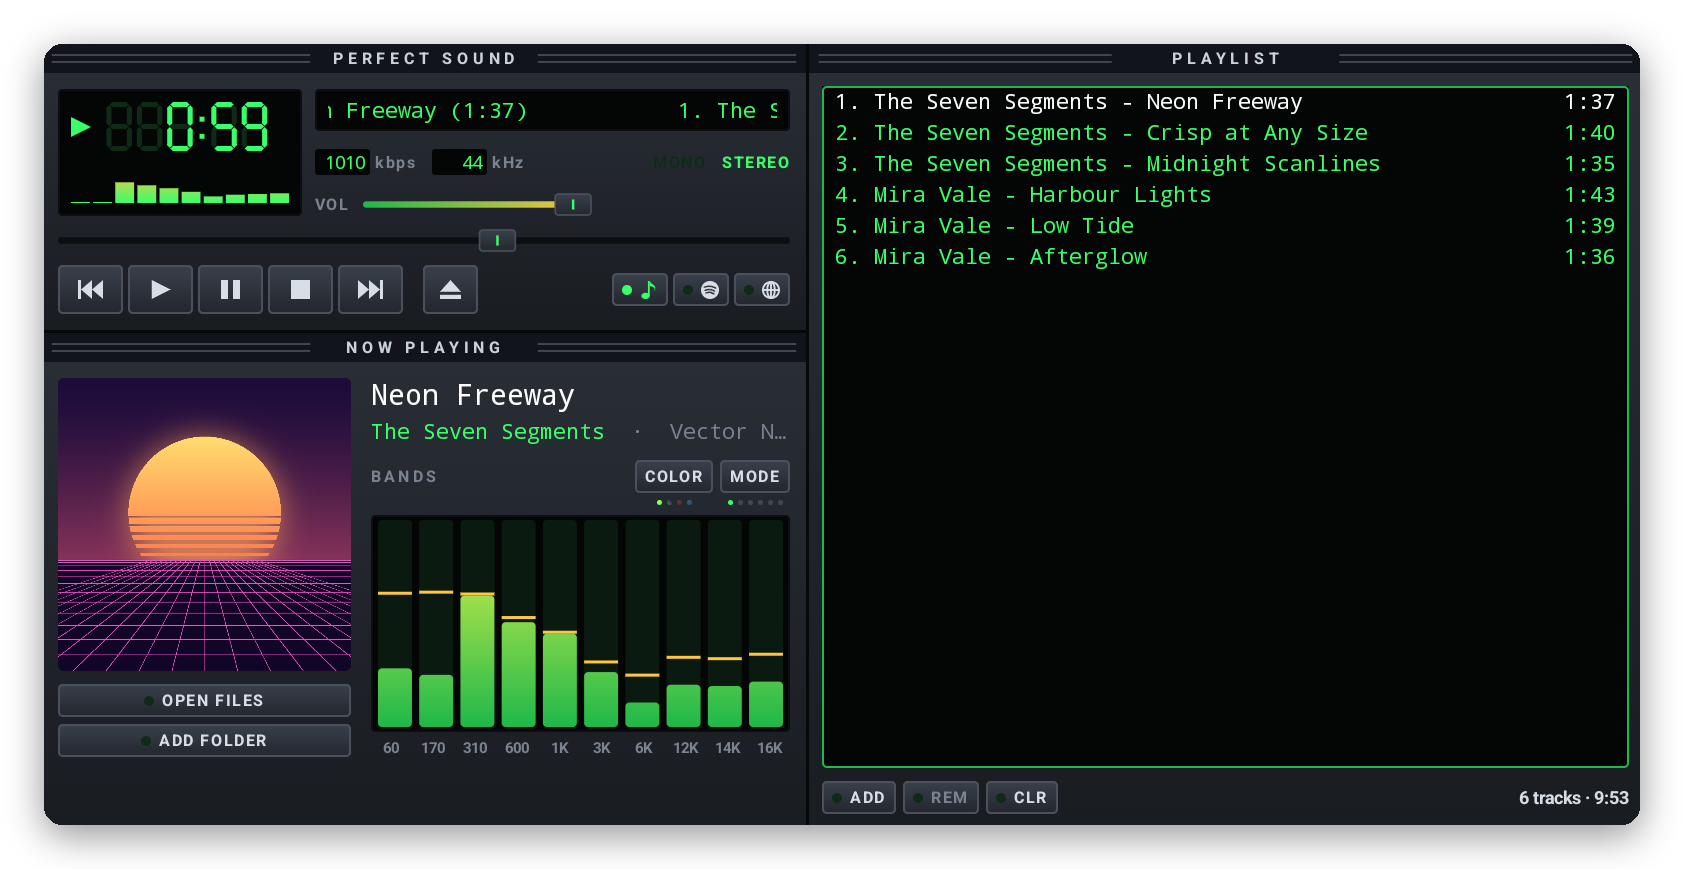
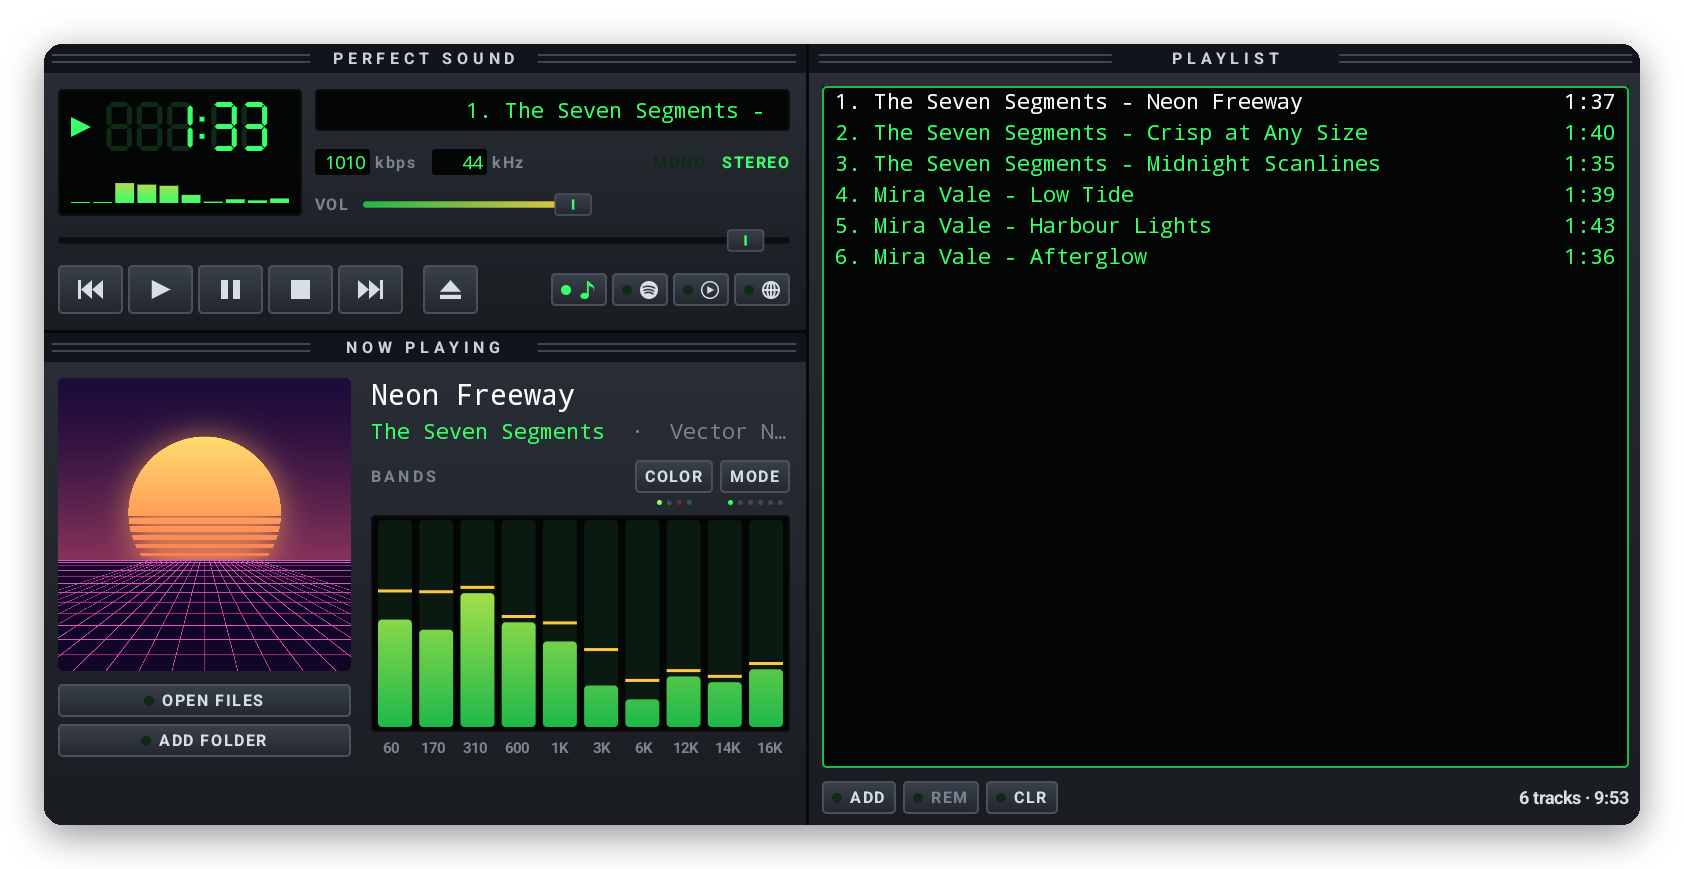
Version 0.4.3
New screenshots with the four sources, README, repo listing text and the
release checklist updated for the Spotify and YouTube Music web players.

diff --git a/tools/play_images.py b/tools/play_images.py
@@ -34,7 +34,7 @@ GREEN, WHITE = (88, 230, 104), (232, 234, 238)
 
 SCREENSHOTS = [
     ("hero.png", "Your own music, with a live visualizer and a proper playlist"),
-    ("remote.png", "Follows and controls Spotify or a Chrome tab"),
+    ("remote.png", "Follows Spotify, YouTube Music and any Chrome tab"),
     (None, "Six visualizer modes, four colour themes"),  # None: the grid of modes
 ]
 

diff --git a/README.md b/README.md
@@ -7,7 +7,8 @@
 <p align="center">
   <b>A music player for Googlebooks in the spirit of the classic '90s desktop players.</b><br>
   A seven-segment clock, a scrolling title, a live visualizer and a proper playlist, drawn crisp at
-  any size. It plays your own files, and it can follow and control Spotify or a Chrome tab.
+  any size. It plays your own files, and it can follow and control Spotify, YouTube Music or any
+  Chrome tab.
 </p>
 
 <p align="center">
@@ -27,10 +28,10 @@
 </p>
 
 <p align="center"><sub>A personal passion project by <a href="https://github.com/sanjaynathwani-blip">sanjaynathwani-blip</a>, proudly developed entirely on a Googlebook.
-Not affiliated with or endorsed by any employer, or by Winamp, Spotify or Google (<a href="#about-this-project">more</a>).</sub></p>
+Not affiliated with or endorsed by any employer, or by Winamp, Spotify, YouTube or Google (<a href="#about-this-project">more</a>).</sub></p>
 
 <p align="center">
-  <img src="docs/images/hero.png" width="880" alt="Perfect Sound playing Neon Freeway by The Seven Segments: the seven-segment clock at 0:59, a synthwave sunset cover, green frequency bands and a six-track playlist">
+  <img src="docs/images/hero.png" width="880" alt="Perfect Sound playing Neon Freeway by The Seven Segments: the seven-segment clock at 1:33, a synthwave sunset cover, green frequency bands and a six-track playlist">
 </p>
 
 ## What it is
@@ -61,11 +62,11 @@ Googlebook's display scaling and at any window size.
 under each button show where you are, and Perfect Sound remembers both. For your own files the
 visualizer needs no permissions at all.
 
-## Remote mode: Spotify and Chrome
+## Remote mode: Spotify, YouTube Music and Chrome
 
 <p align="center">
   <img src="docs/images/remote.png" width="880" alt="Perfect Sound following a Chrome tab playing Harbour Lights by Mira Vale: a moonlit-sea cover and a rainbow LED visualizer">
-  <br><sub>Following a Chrome tab: the title, artist, album art and position come from Chrome's media session.</sub>
+  <br><sub>Following a Chrome tab: the title, artist, album art and position come from Chrome's media session. SPOTIFY and YT MUSIC work the same way for their web players.</sub>
 </p>
 
 Pick **SPOTIFY** or **YT MUSIC** next to the transport buttons and Perfect Sound opens that web
@@ -82,8 +83,9 @@ from a download, Android may grey that switch out as a **restricted setting**. I
 the switch and **OK**, then click **APP INFO** in Perfect Sound, open **⋮** at the top right and
 choose **Allow restricted settings**. After that, **GRANT ACCESS** turns on as usual.
 
-To make the visualizer bounce to them, press **ON**: Android asks to share an app's audio each
-time, and Perfect Sound only ever captures other apps' media playback, never the microphone.
+To make the visualizer bounce to them, press **ON** and pick **Chrome** when Android asks which
+app's audio to share. It asks each time, and Perfect Sound only ever captures other apps' media
+playback, never the microphone.
 
 ## Made for the Googlebook
 
@@ -154,7 +156,8 @@ Ideas and bug reports are welcome in [Issues](../../issues).
 Perfect Sound is plain Android: Kotlin, Jetpack Compose for every pixel of the interface (the
 seven-segment digits, the sliders and the meters are all drawn in code), and AndroidX Media3 for
 playback and the media session. Remote mode uses Android's media sessions and notification-listener
-API; the remote visualizer uses `AudioPlaybackCapture`. The app lives in [`app/`](app/).
+API (Chrome's media notification names the site that's playing, which tells Spotify and YouTube
+Music apart from other tabs); the remote visualizer uses `AudioPlaybackCapture`. The app lives in [`app/`](app/).
 
 ```sh
 ./gradlew assembleDebug          # app/build/outputs/apk/debug/app-debug.apk ("Perfect Sound Dev")
@@ -162,7 +165,7 @@ API; the remote visualizer uses `AudioPlaybackCapture`. The app lives in [`app/`
 ./gradlew assembleRelease        # signed only if ~/.config/perfect-sound/keystore.properties exists
 ```
 
-It needs JDK 17 and the Android SDK (platform 35). The debug build installs next to the release
+It needs JDK 17 and the Android SDK (platform 36). The debug build installs next to the release
 one, as **Perfect Sound Dev**. A [GitHub Actions workflow](.github/workflows/build.yml) builds it
 and runs the unit tests on every push and pull request.
 
@@ -188,8 +191,8 @@ affiliation with my employer: my employer didn't make, sponsor, review or endors
 here speaks for my employer or endorses its products.
 
 It's inspired by the desktop music players of the late '90s but shares no code or artwork with
-any of them. Winamp is a trademark of its owners, Spotify is a trademark of Spotify AB, and Chrome
-and Googlebook are trademarks of Google LLC; they're named only to describe what Perfect Sound
+any of them. Winamp is a trademark of its owners, Spotify is a trademark of Spotify AB, and Chrome,
+YouTube Music and Googlebook are trademarks of Google LLC; they're named only to describe what Perfect Sound
 works with, and none of them made or endorsed it.
 
 ## Licenses

diff --git a/RELEASING.md b/RELEASING.md
@@ -48,11 +48,13 @@ previous version.
    and install it.
 3. Open Perfect Sound, then **OPEN FILES** or **ADD FOLDER**: a local track plays and the
    visualizer moves.
-4. Pick **SPOTIFY** with something playing in Spotify. Turn on notification access with the app's
-   own **GRANT ACCESS** button. If the switch is greyed out, follow the steps the app shows.
+4. Pick **SPOTIFY** with something playing in Spotify's web player (open.spotify.com in Chrome).
+   Turn on notification access with the app's own **GRANT ACCESS** button. If the switch is
+   greyed out, follow the steps the app shows.
 5. Come back to Perfect Sound's window without closing it: Spotify's track and art appear.
-6. Press **ON** and accept Android's prompt: the visualizer moves to Spotify.
-7. Repeat 4 to 6 for **CHROME** with YouTube Music playing in a tab.
+6. Press **ON** and pick **Chrome** in Android's prompt: the visualizer moves to Spotify.
+7. Repeat 4 to 6 for **YT MUSIC** with YouTube Music playing in a tab, and for **CHROME** with
+   any other tab playing (YouTube, say).
 
 ## 5. Make it the latest release
 

diff --git a/PLAY.md b/PLAY.md
@@ -65,8 +65,8 @@ Upload `app/build/outputs/bundle/release/app-release.aab`. Play takes the bundle
 > • Four colour themes
 >
 > REMOTE MODE
-> • See and control what Spotify or a Chrome tab is playing, with the visualizer bouncing to
->   it too
+> • See and control what's playing in Chrome, including the Spotify and YouTube Music web
+>   players, with the visualizer bouncing to it too
 >
 > A REAL PLAYLIST
 > • Add files or whole folders, drop files onto the window, or use Open with from Files
@@ -78,8 +78,8 @@ Upload `app/build/outputs/bundle/release/app-release.aab`. Play takes the bundle
 > the files you give it.
 >
 > Perfect Sound is a personal project, MIT-licensed, with its source on GitHub. It isn't
-> affiliated with or endorsed by Spotify or Google; they're named only to describe what it works
-> with.
+> affiliated with or endorsed by Spotify, YouTube or Google; they're named only to describe what
+> it works with.
 
 **Graphics** (from `tools/play_images.py`, in `build/play`)
 

diff --git a/CHANGELOG.md b/CHANGELOG.md
@@ -1,6 +1,6 @@
 # Changelog
 
-## Unreleased
+## 0.4.3 (2026-10-05)
 
 - **SPOTIFY now means Spotify's web player in Chrome.** The Spotify app has started marking its
   audio as off limits to other apps, so the visualizer stayed flat; the web player's audio comes
@@ -8,7 +8,6 @@
   tab back to the front. Spotify shows 256 kbps / 44 kHz, the web player's Premium quality.
 - **A YT MUSIC source** for YouTube Music on the web, which works the same way; CHROME covers every
   other tab. With four sources, the buttons show just their icons below 680 dp instead of 560 dp.
-
 - **Targets Android 16 (API 36),** which Google Play requires of new apps, ready for testing
   through Play.
 
